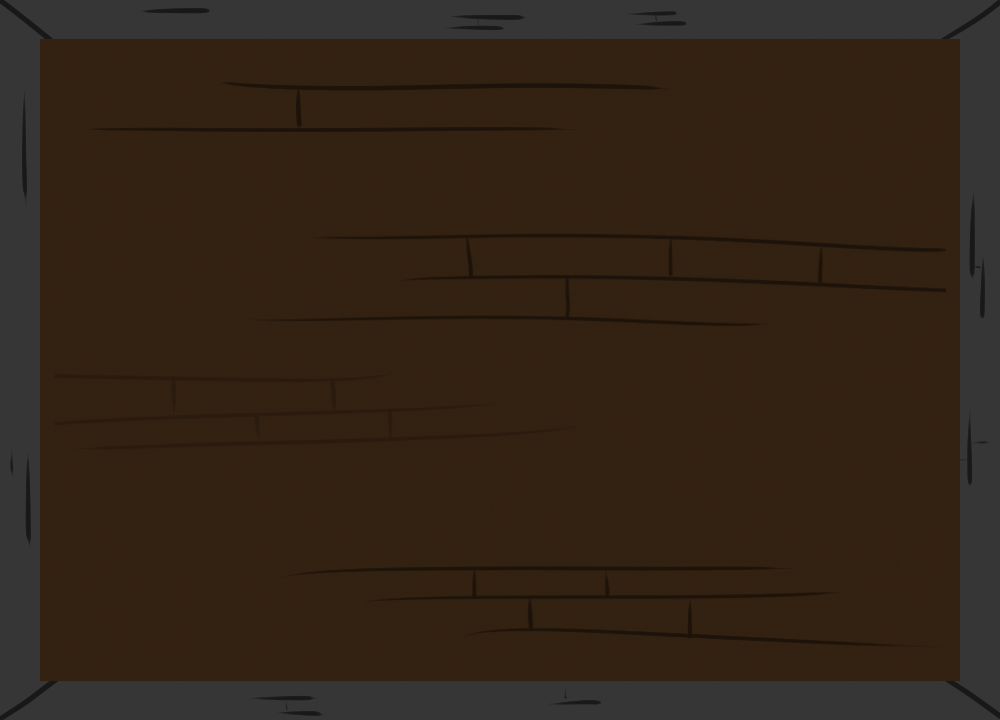
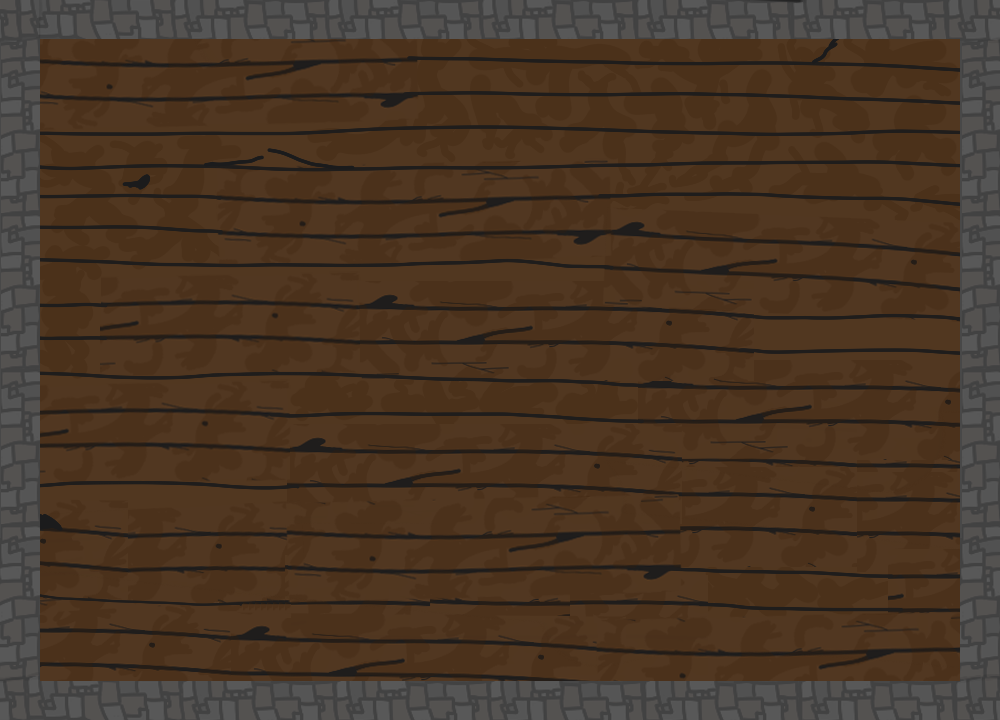
Updated room textures

diff --git a/core/src/com/apcs/game/rooms/DefaultRoom.java b/core/src/com/apcs/game/rooms/DefaultRoom.java
@@ -17,7 +17,22 @@ public class DefaultRoom extends Room {
     private ArrayList<Item> groundItems;
 
     public DefaultRoom() {
-        myFloor = new Texture("rooms/background1.png"); // sets texture
+        int choice = (int)(Math.random() * 3) + 1;
+        switch (choice) {
+            case 1:
+                myFloor = new Texture("rooms/background1.png"); // sets texture
+                break;
+            case 2:
+                myFloor = new Texture("rooms/background2.png"); // sets texture
+                break;
+            case 3:
+                myFloor = new Texture("rooms/background3.png"); // sets texture
+                break;
+            default:
+                myFloor = new Texture("rooms/background1.png"); // sets texture
+                break;
+        }
+
         doors = new ArrayList<Door>();
         entities = new ArrayList<Entity>();
         spikes = new ArrayList<Spike>();
